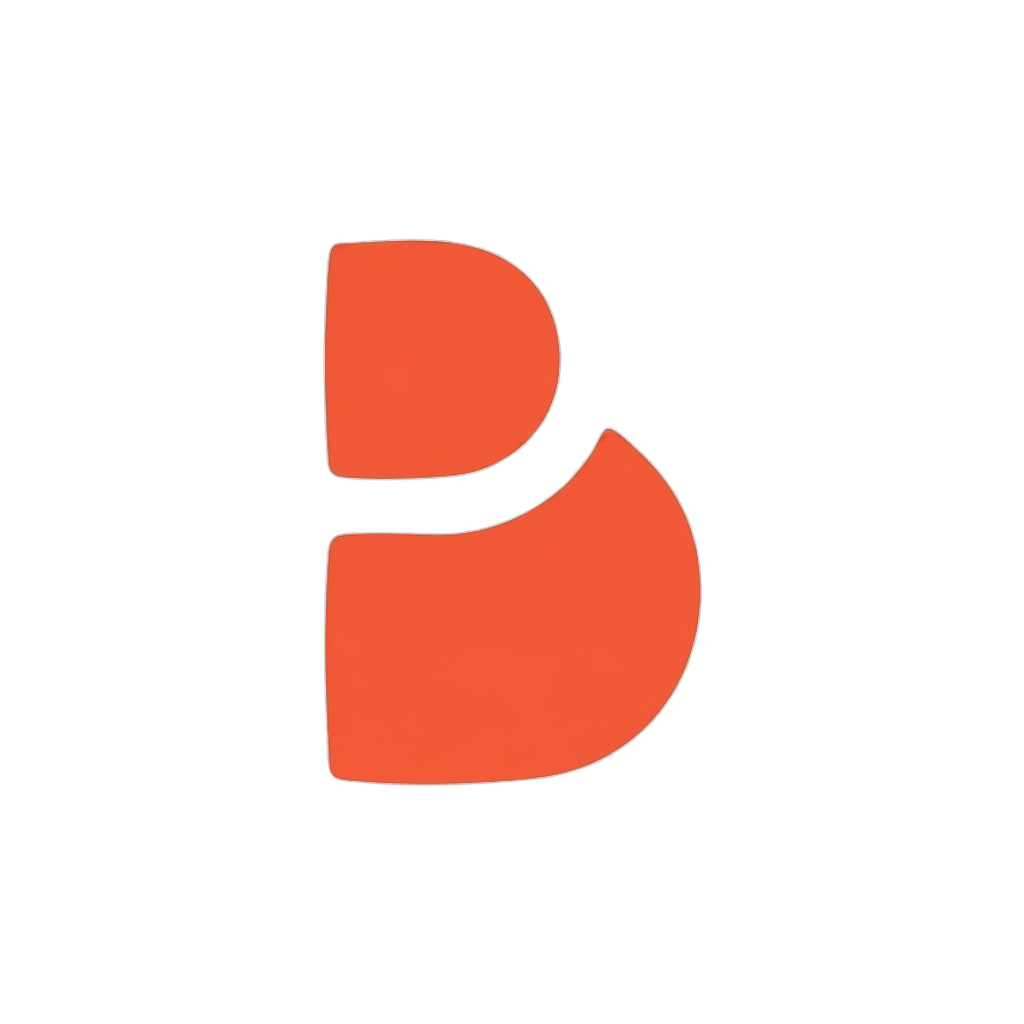
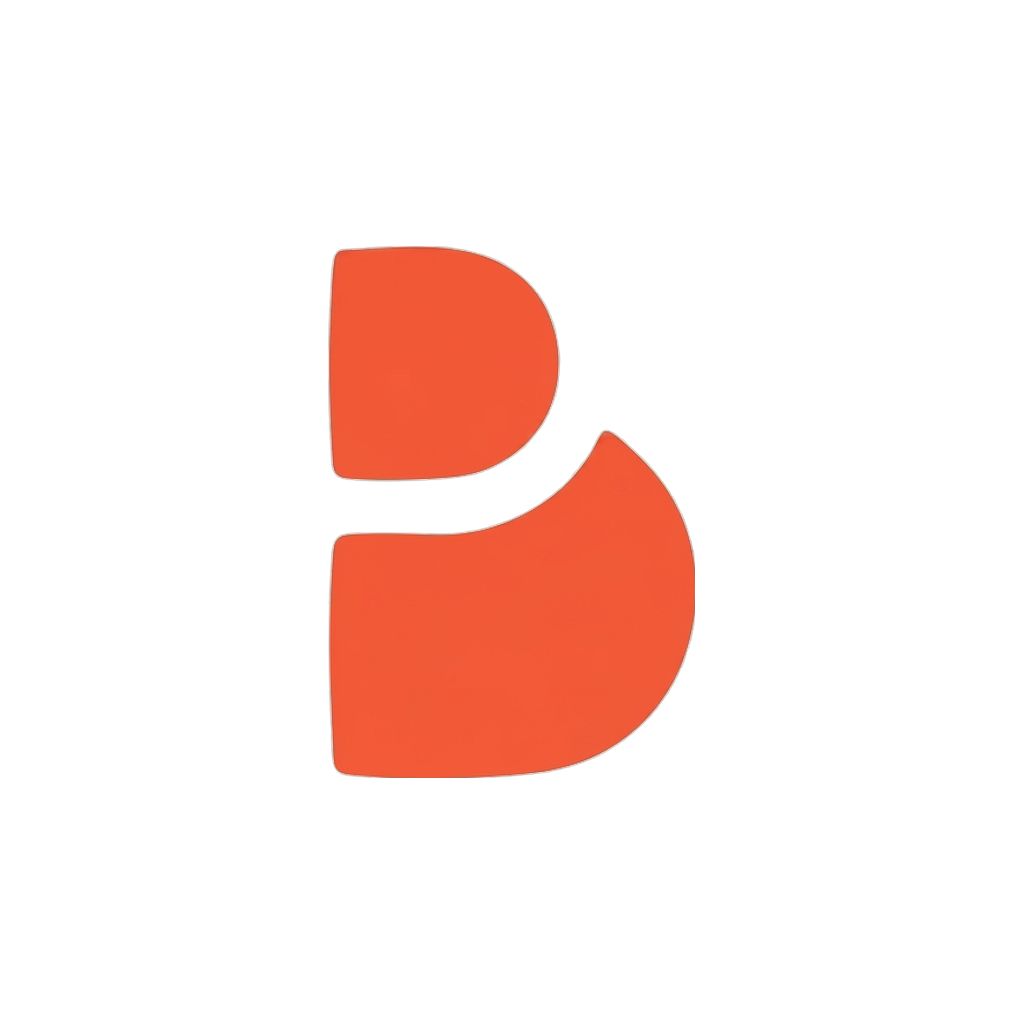
feat(app): notificaciones leíbles, ícono sin fondo navy, UX de venta
- Notificaciones: tocar una la marca como leída y baja el contador de la campana;
  botón "Marcar todas" en la cabecera del panel.
- Nueva Venta: el selector de tipo de producto seleccionado se ve navy relleno con
  texto blanco (igual que la aseguradora); auto-scroll al inicio al cambiar de paso
  (para llegar de forma intuitiva al OCR).
- Ícono de la app: la «B» de Bareca sobre blanco (se quitó el fondo navy).

diff --git a/src/components/AppHeader.tsx b/src/components/AppHeader.tsx
@@ -38,7 +38,27 @@ export function AppHeader({ titulo, onVolver }: { titulo: string; onVolver?: () 
     [perfil, destinoId],
   )
   const { datos } = useApi<Notificacion[]>(cargar, [perfil, destinoId])
-  const noLeidas = (datos ?? []).filter((n) => !n.leida).length
+  // Leídas marcadas en esta sesión (además de las que ya vienen `leida` del backend).
+  const [leidas, setLeidas] = useState<Set<number>>(new Set())
+  const esLeida = (n: Notificacion) => n.leida || leidas.has(Number(n.id))
+  const noLeidas = (datos ?? []).filter((n) => !esLeida(n)).length
+
+  const marcarLeida = (n: Notificacion) => {
+    if (esLeida(n) || !user?.loginId) return
+    setLeidas((s) => new Set(s).add(Number(n.id)))
+    notifApi.markRead(user.loginId, Number(n.id)).catch(() => {})
+  }
+  const marcarTodas = () => {
+    if (!user?.loginId || !datos) return
+    const pend = datos.filter((n) => !esLeida(n))
+    if (!pend.length) return
+    setLeidas((s) => {
+      const nx = new Set(s)
+      pend.forEach((n) => nx.add(Number(n.id)))
+      return nx
+    })
+    pend.forEach((n) => notifApi.markRead(user.loginId, Number(n.id)).catch(() => {}))
+  }
 
   return (
     <View style={[est.header, { paddingTop: insets.top + 8 }]}>
@@ -67,6 +87,11 @@ export function AppHeader({ titulo, onVolver }: { titulo: string; onVolver?: () 
         <View style={[est.panel, { top: insets.top + 46 }]}>
           <View style={est.panelHead}>
             <Text style={est.panelTitulo}>Notificaciones</Text>
+            {noLeidas > 0 ? (
+              <Pressable onPress={marcarTodas} hitSlop={6}>
+                <Text style={est.marcarTodas}>Marcar todas</Text>
+              </Pressable>
+            ) : null}
           </View>
           <ScrollView style={{ maxHeight: 380 }}>
             {datos === null ? (
@@ -74,18 +99,25 @@ export function AppHeader({ titulo, onVolver }: { titulo: string; onVolver?: () 
             ) : datos.length === 0 ? (
               <EstadoVacio titulo="Sin notificaciones" detalle="No tienes avisos por ahora." />
             ) : (
-              datos.map((n) => (
-                <View key={n.id} style={[est.notif, !n.leida && est.notifNoLeida]}>
-                  <View style={{ flexDirection: 'row', alignItems: 'center', gap: 6 }}>
-                    {!n.leida && <View style={est.dot} />}
-                    <Text style={est.notifTitulo} numberOfLines={1}>
-                      {n.titulo}
-                    </Text>
-                  </View>
-                  <Text style={est.notifMsg}>{n.mensaje}</Text>
-                  {n.fecha ? <Text style={est.notifFecha}>{fechaRelativa(n.fecha)}</Text> : null}
-                </View>
-              ))
+              datos.map((n) => {
+                const leida = esLeida(n)
+                return (
+                  <Pressable
+                    key={n.id}
+                    onPress={() => marcarLeida(n)}
+                    style={({ pressed }) => [est.notif, !leida && est.notifNoLeida, pressed && { opacity: 0.7 }]}
+                  >
+                    <View style={{ flexDirection: 'row', alignItems: 'center', gap: 6 }}>
+                      {!leida ? <View style={est.dot} /> : null}
+                      <Text style={[est.notifTitulo, leida && { fontWeight: '600', color: color.text2 }]} numberOfLines={1}>
+                        {n.titulo}
+                      </Text>
+                    </View>
+                    <Text style={est.notifMsg}>{n.mensaje}</Text>
+                    {n.fecha ? <Text style={est.notifFecha}>{fechaRelativa(n.fecha)}</Text> : null}
+                  </Pressable>
+                )
+              })
             )}
           </ScrollView>
         </View>
@@ -136,8 +168,16 @@ const est = StyleSheet.create({
     shadowOffset: { width: 0, height: 8 },
     elevation: 10,
   },
-  panelHead: { padding: 14, borderBottomWidth: 1, borderBottomColor: color.borderSoft },
+  panelHead: {
+    flexDirection: 'row',
+    alignItems: 'center',
+    justifyContent: 'space-between',
+    padding: 14,
+    borderBottomWidth: 1,
+    borderBottomColor: color.borderSoft,
+  },
   panelTitulo: { fontSize: 14, fontWeight: '800', color: color.primary },
+  marcarTodas: { fontSize: 11.5, fontWeight: '700', color: color.primary },
   notif: { padding: 12, borderBottomWidth: 1, borderBottomColor: color.borderSoft },
   notifNoLeida: { backgroundColor: color.primaryTint },
   dot: { width: 8, height: 8, borderRadius: 99, backgroundColor: color.primary },

diff --git a/src/components/NuevaVentaWizard.tsx b/src/components/NuevaVentaWizard.tsx
@@ -1,4 +1,4 @@
-import { useCallback, useEffect, useMemo, useState } from 'react'
+import { useCallback, useEffect, useMemo, useRef, useState } from 'react'
 import { ActivityIndicator, Image, Linking, Platform, Pressable, ScrollView, StyleSheet, Switch, Text, View } from 'react-native'
 import { WebView } from 'react-native-webview'
 import { useSafeAreaInsets } from 'react-native-safe-area-context'
@@ -103,6 +103,11 @@ function bsDePlan(plan: any): number {
 export function NuevaVentaWizard({ express = false }: { express?: boolean }) {
   const insets = useSafeAreaInsets()
   const [paso, setPaso] = useState(0)
+  const scrollRef = useRef<ScrollView>(null)
+  // Al cambiar de paso, sube al inicio (p.ej. al pasar a Datos del Cliente → OCR).
+  useEffect(() => {
+    scrollRef.current?.scrollTo({ y: 0, animated: true })
+  }, [paso])
   const [cargando, setCargando] = useState<Record<string, boolean>>({})
   const [error, setError] = useState<string | null>(null)
   const setCarga = (k: string, v: boolean) => setCargando((c) => ({ ...c, [k]: v }))
@@ -495,7 +500,7 @@ export function NuevaVentaWizard({ express = false }: { express?: boolean }) {
         })}
       </View>
 
-      <ScrollView style={{ flex: 1 }} contentContainerStyle={{ padding: 16, paddingBottom: insets.bottom + 30 }} keyboardShouldPersistTaps="handled">
+      <ScrollView ref={scrollRef} style={{ flex: 1 }} contentContainerStyle={{ padding: 16, paddingBottom: insets.bottom + 30 }} keyboardShouldPersistTaps="handled">
         <Text style={est.titulo}>{express ? 'Venta Rápida RCV' : 'Nueva Solicitud'}</Text>
 
         {error ? (
@@ -529,7 +534,7 @@ export function NuevaVentaWizard({ express = false }: { express?: boolean }) {
                       </View>
                     ) : null}
                     <Text style={est.cardEmoji}>{t.emoji}</Text>
-                    <Text style={[est.cardTexto, !t.activo && { color: color.text4 }]}>{t.texto}</Text>
+                    <Text style={[est.cardTexto, sel && { color: '#fff' }, !t.activo && { color: color.text4 }]}>{t.texto}</Text>
                   </Pressable>
                 )
               })}
@@ -1399,7 +1404,7 @@ const est = StyleSheet.create({
   },
   grid2: { flexDirection: 'row', flexWrap: 'wrap', gap: 10 },
   col2: { width: '47%', flexGrow: 1 },
-  cardSel: { borderColor: color.primary, borderWidth: 2, backgroundColor: color.primaryLight },
+  cardSel: { borderColor: color.primary, borderWidth: 2, backgroundColor: color.primary },
   cardOff: { opacity: 0.6 },
   cardEmoji: { fontSize: 26, marginBottom: 6 },
   cardTexto: { fontSize: 13, fontWeight: '800', color: color.text, textAlign: 'center' },
